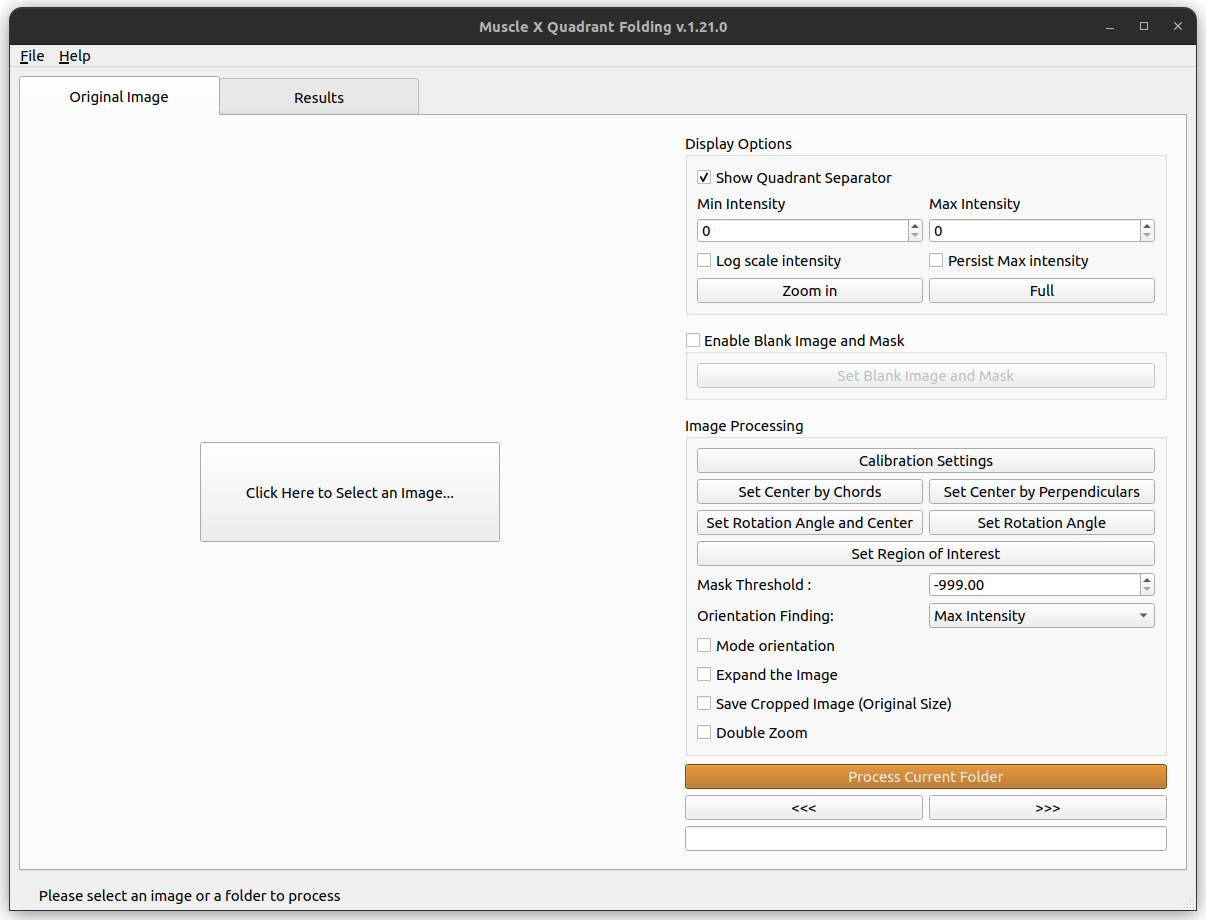
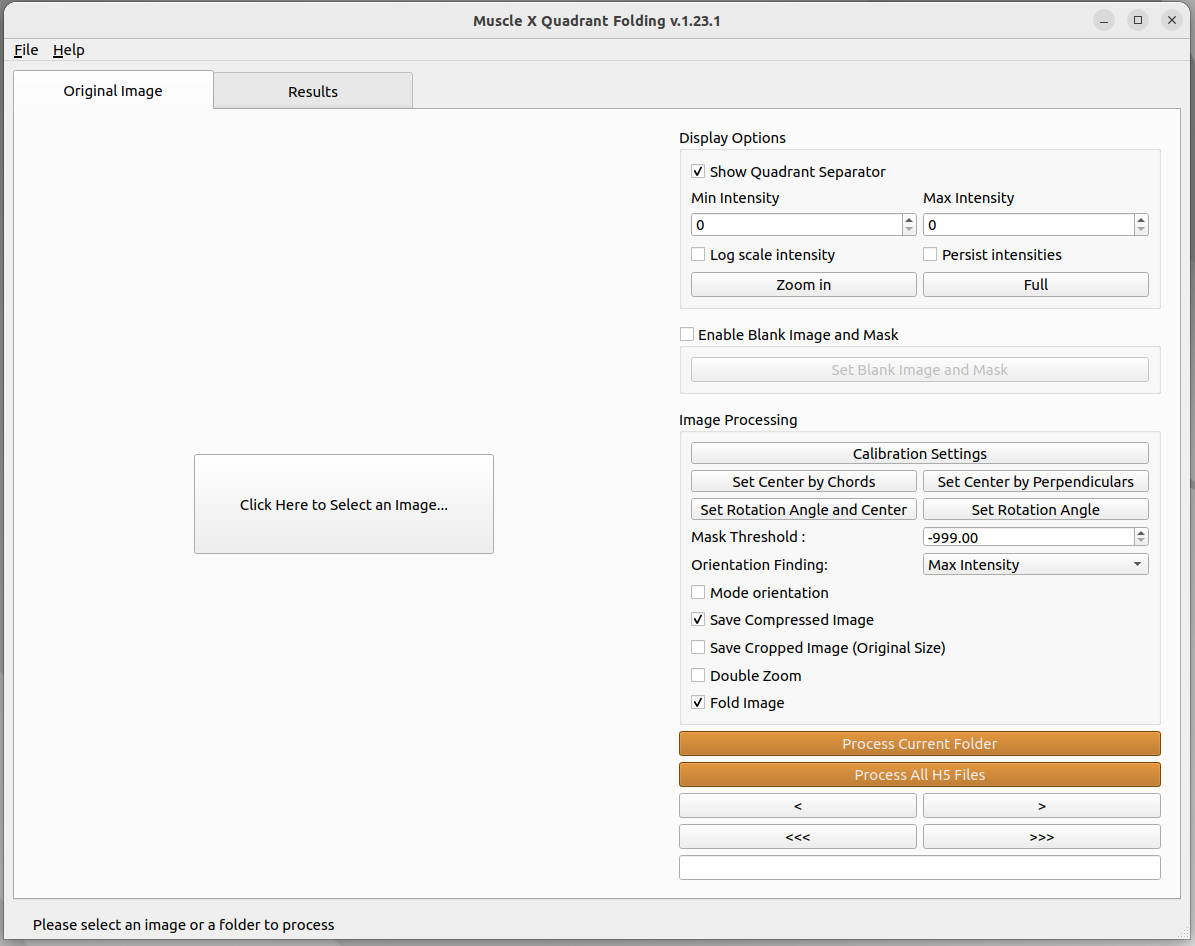
updated qf doc on fold image option

Changed region(s): [[0.0, 0.0, 1.0, 1.0], [0.1858, 0.5174, 0.3715, 0.5478]]

diff --git a/docs/AppSuite/QuadrantFolding/Quadrant-Folding--How-to-use.md b/docs/AppSuite/QuadrantFolding/Quadrant-Folding--How-to-use.md
@@ -77,6 +77,9 @@ To fix the center position to a user supplied value, you can check Fix Center ch
 This feature is used to zoom into subpixel level accuracy. On checking this box, a new subplot is created on the top right of the image. As you move the mouse pointer into the image area, 20 x 20 pixels centered at the location of the mouse pointer is cropped from the image and scaled up to 10 times and plotted in the subplot mentioned earlier. This feature can be used with any calibration feature (Set Rotation, Set Center and Rotation...). Click the double zoom check box so that the subplot appears. Click on a calibration button, for example the Set Center and Rotation button. Drag your mouse pointer to the position you want to select the first point (or the first reflection peak as described earlier). Click the image to freeze the subplot region. A message appears, check do not show again box to not see this message again. Click on the exact point in the subplot region, which plots an equivalent point in the main image. Perform the previous two steps to select the second point. Uncheck the Double Zoom checkbox to hide the subplot window.<br/>
 ![-](../../images/QF/DoubleZoom.png)
 
+#### Fold Image
+This function is used to tell the program to fold the image. By default, it is checked so the program folds the image during processing. If this options is unchecked, the program will reprocess the image without folding it. This is useful during cases when the images being processed have already been folded.
+
 ### Results
 In this tab, the resulting image will be displayed along with options on the right. 
 
